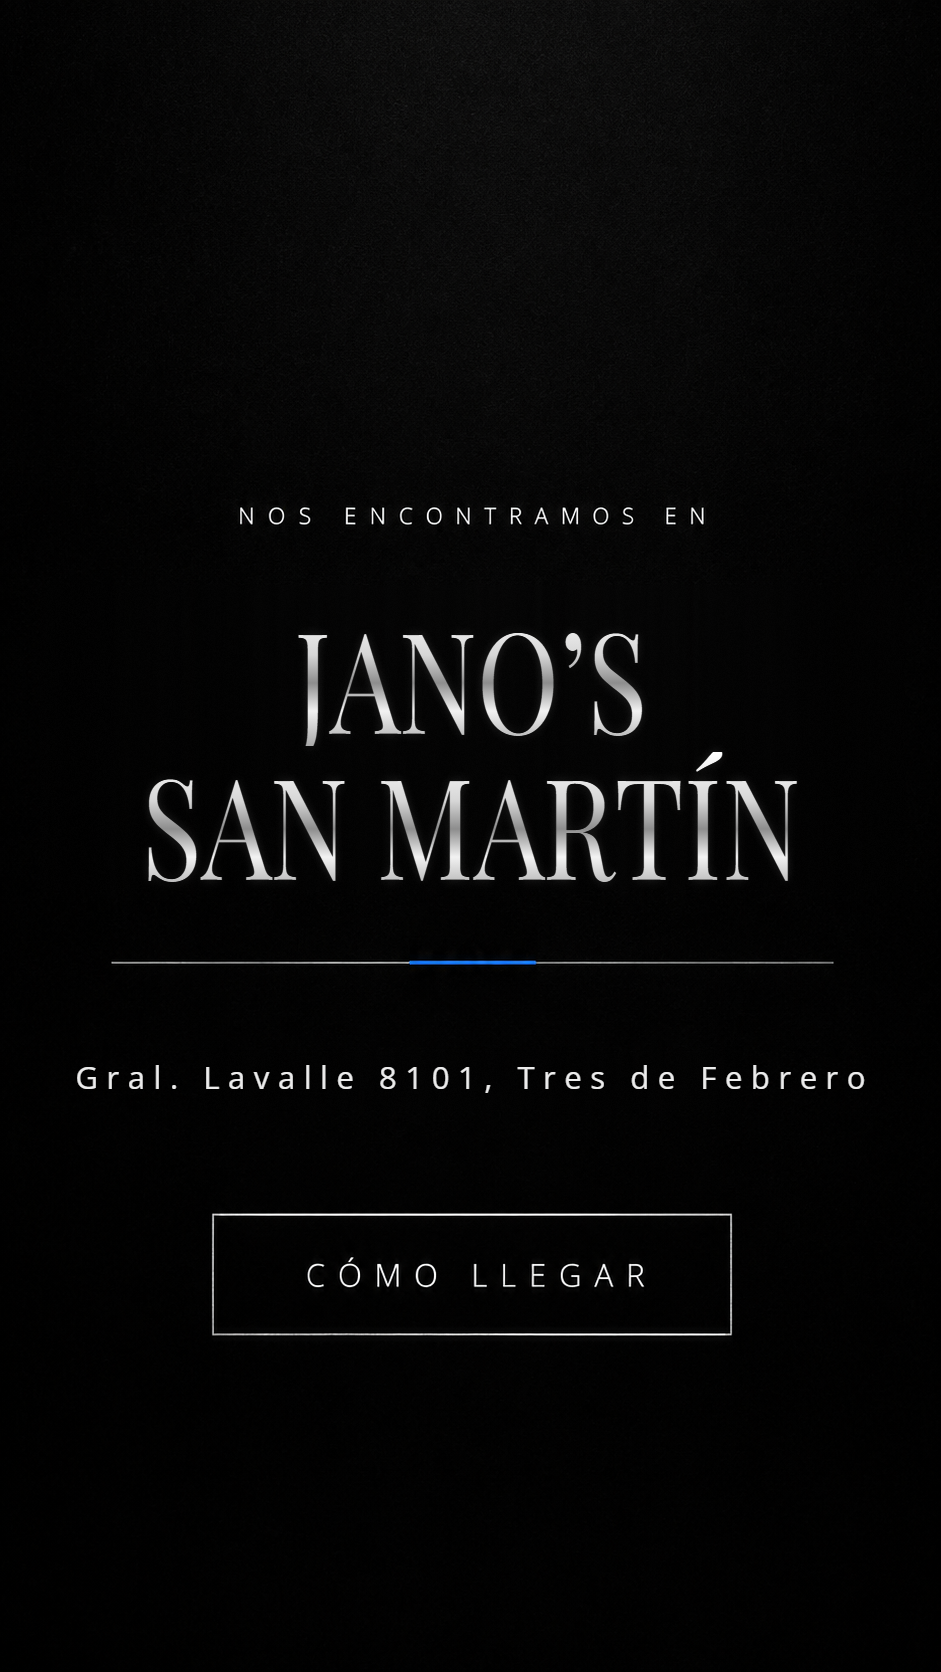
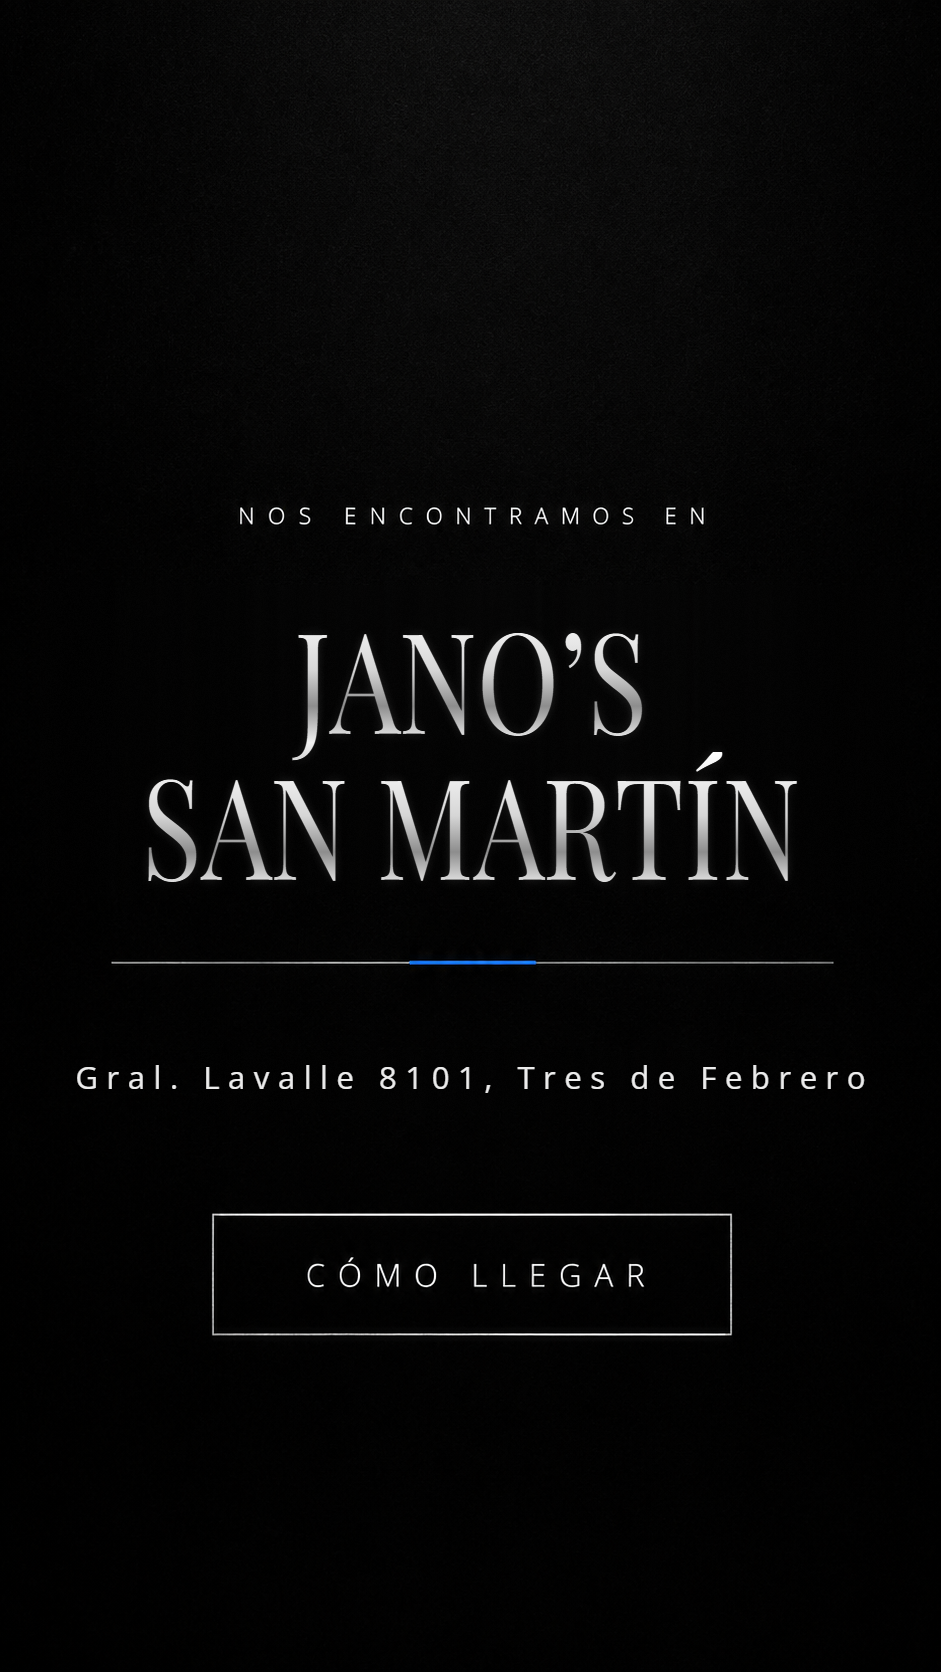
Corrige la J recortada en Cómo llegar

diff --git a/index.html b/index.html
@@ -108,7 +108,7 @@
     </section>
 
     <section class="panel location-panel" aria-label="Ubicación de la fiesta">
-      <img src="assets/como-llegar-alma.png" alt="Jano’s San Martín, General Lavalle 8101, Tres de Febrero" width="941" height="1672" loading="lazy" decoding="async">
+      <img src="assets/como-llegar-alma.png?v=2" alt="Jano’s San Martín, General Lavalle 8101, Tres de Febrero" width="941" height="1672" loading="lazy" decoding="async">
       <span class="location-grid-effect" aria-hidden="true"></span>
       <span class="location-light-effect" aria-hidden="true"></span>
       <button class="location-hotspot" type="button" data-open-location aria-label="Ver opciones para llegar a Jano’s San Martín">CÓMO LLEGAR</button>
